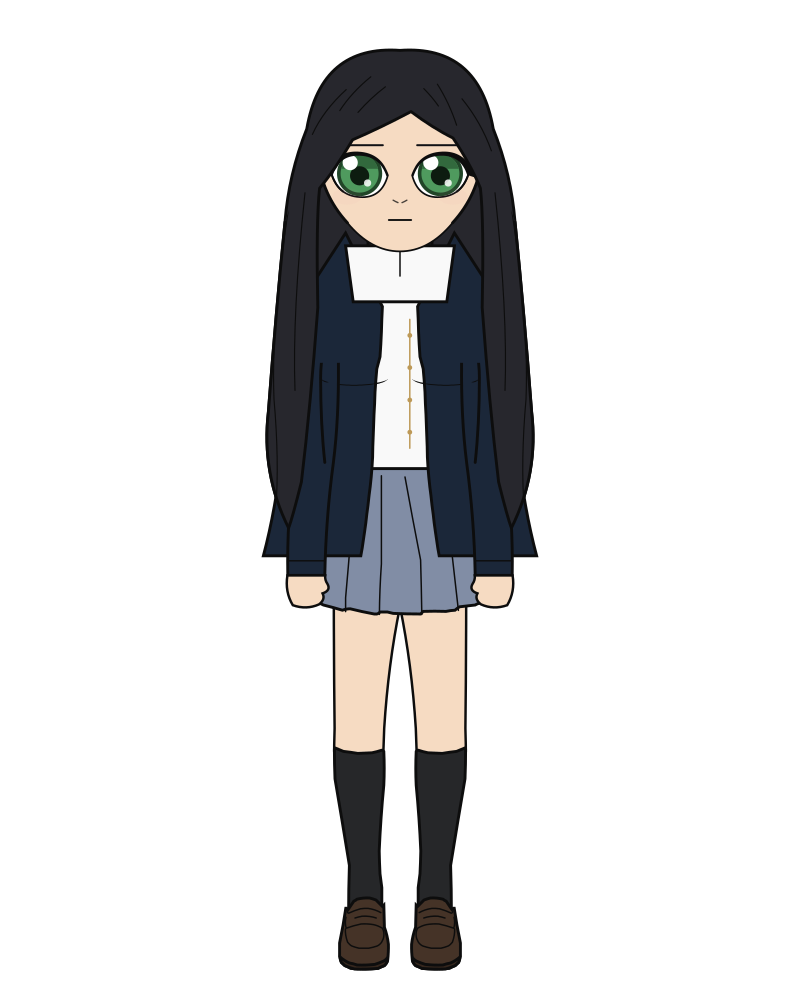
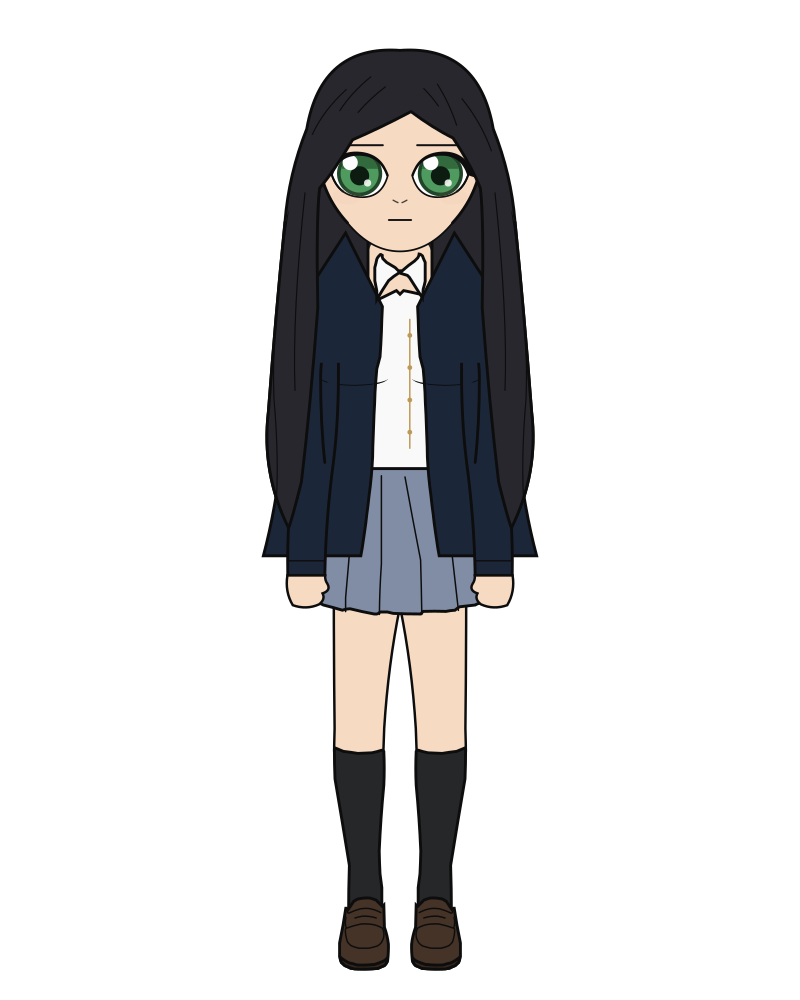
Mio: traced shirt collar and a shallower tunic neckline (M5)

Changed region(s): [[0.4062, 0.248, 0.5938, 0.31]]

diff --git a/src/anime_character_creator/character.py b/src/anime_character_creator/character.py
@@ -265,6 +265,12 @@ class Outfit:
     # (`collar_color`) and with a round neckline, which have their own necks, and
     # it replaces the undersleeve trim (`neckline_trim`) on the V.
     neckline_stand: bool = True
+    # How deep the tunic's V cuts, in head radii, for a garment that closes higher
+    # than its collar's default leaves it: Mio's shirt is buttoned to the throat
+    # under a shirt collar whose wings cross above the point where the default V
+    # for a traced collar bottoms out, so the V's skin showed below them. `None`
+    # keeps the depth each case already had.
+    neckline_notch: float | None = None
     # The tunic's sleeve reads its own sleeve colour all the way to the
     # wrist cuff instead of stopping at the short hem and handing off to
     # `undersleeve_color`/bare skin. Off by default, the short sleeve every
@@ -3872,6 +3878,8 @@ def _tunic(sk: Skeleton, p: CharacterParams) -> str:
         # has to sit behind its wings, or its edges show in that V above the
         # collar's back band.
         notch = sk.head_r * 0.19
+    if p.outfit.neckline_notch is not None:
+        notch = sk.head_r * p.outfit.neckline_notch
     sleeve_w = _sleeve_half_w(sk)
     # A coat worn over the tunic hides its short sleeve at the shoulder. The
     # coat's own shoulder reaches `_sleeve_half_w(sk) * 0.92` (see `_coat`) and
@@ -8235,6 +8243,49 @@ SKIRT_CUTS["pleated"] = GarmentCut(
     ref_body="tall_slender",
 )
 # (end of the pleated skirt)
+
+
+# Mio's shirt collar, per `docs/mio-plan.md` M5.
+# Traced by `harness/mio/trace_collar.py` off `segments/white-collared-shirt.png`: the
+# two wings as one outline, touching at the foot of their V where the ribbon's knot sits
+# and open above it, so her neck shows between them. An open collar, unlike the closed
+# band `_collar` draws without a cut. Head radii on `tall_slender`, x from the collar's
+# own centre line.
+COLLAR_CUTS["shirt"] = GarmentCut(
+    fills=(
+        (
+            (-0.253, 1.569),
+            [
+                ((-0.253, 1.523), (-0.253, 1.476)),
+                ((-0.266, 1.419), (-0.275, 1.362)),
+                ((-0.275, 1.291), (-0.275, 1.220)),
+                ((-0.262, 1.173), (-0.253, 1.127)),
+                ((-0.242, 1.102), (-0.217, 1.077)),
+                ((-0.207, 1.073), (-0.196, 1.084)),
+                ((-0.198, 1.102), (-0.189, 1.120)),
+                ((-0.168, 1.141), (-0.146, 1.163)),
+                ((-0.100, 1.189), (-0.053, 1.220)),
+                ((-0.036, 1.237), (-0.018, 1.255)),
+                ((0.004, 1.255), (0.025, 1.255)),
+                ((0.093, 1.192), (0.160, 1.148)),
+                ((0.178, 1.131), (0.196, 1.113)),
+                ((0.207, 1.091), (0.210, 1.070)),
+                ((0.228, 1.072), (0.246, 1.091)),
+                ((0.259, 1.127), (0.275, 1.163)),
+                ((0.275, 1.266), (0.275, 1.369)),
+                ((0.267, 1.412), (0.253, 1.455)),
+                ((0.252, 1.505), (0.246, 1.555)),
+                ((0.176, 1.441), (0.103, 1.327)),
+                ((0.093, 1.316), (0.082, 1.305)),
+                ((0.036, 1.289), (-0.011, 1.277)),
+                ((-0.068, 1.312), (-0.125, 1.362)),
+                ((-0.195, 1.466), (-0.253, 1.569)),
+            ],
+        ),
+    ),
+    ref_body="tall_slender",
+)
+# (end of the shirt collar)
 
 
 def _arms(

diff --git a/harness/mio/trace_collar.py b/harness/mio/trace_collar.py
@@ -1,0 +1,71 @@
+"""Trace Mio's shirt collar (`docs/mio-plan.md`, M5).
+
+`segments/white-collared-shirt.png` holds four things: the collar's two wings, a
+narrow strip of shirt front down the middle, two slivers beside the ribbon, and a
+cuff at each wrist. Only the wings are a silhouette question. The strip and the
+slivers are what the blazer's lapels and the ribbon happen to leave visible, so
+the tunic draws the shirt front and the blazer (M7) decides how much of it shows;
+the cuffs belong to the sleeves (M7).
+
+The wings touch at the foot of their V, where the ribbon's knot sits, and are
+separate above it, with her neck between them. Their tips already reach to within
+a few pixels of the chin, so nothing is carried up: a first pass copied the top row
+upward to tuck them behind the jaw, and the top row of a pointed wing is its tip,
+one pixel, so that drew a thin spike.
+
+Cut coordinates are head radii on `tall_slender`, x from the collar's own centre
+line (`AXIS_X`).
+
+    ./harness/run.sh harness/mio/trace_collar.py
+"""
+
+import json
+import sys
+
+import numpy as np
+from common import CY, R, median_colour, segment
+from PIL import Image, ImageDraw
+from scipy import ndimage as ndi
+
+sys.path.insert(0, ".claude/skills/trace-reference")
+import trace_lib as T  # noqa: E402
+
+# One, not the 2 the rounder shapes take: eroding by the stroke's half cuts a sharp
+# tip back along its bisector by much more than 2 px, and the wings are all tips.
+HALF = 1
+TOL = 0.008
+
+shirt, rgb = segment("white-collared-shirt.png")
+lab, n = ndi.label(shirt)
+# The collar: the component whose centroid is highest (the front strip and the
+# cuffs are all lower).
+best = min(range(1, n + 1), key=lambda i: np.nonzero(lab == i)[0].mean() if (lab == i).sum() > 500 else 1e9)
+collar = lab == best
+ys, xs = np.nonzero(collar)
+print(f"collar {int(collar.sum())} px, rows {ys.min()} to {ys.max()}, x {xs.min()} to {xs.max()}")
+
+sil = ndi.binary_erosion(collar, iterations=HALF)
+sy, sx = np.nonzero(sil)
+AXIS_X = (sx.min() + sx.max()) / 2
+print(f"silhouette x {sx.min()} to {sx.max()}, centre {AXIS_X:.1f}, rows {sy.min()} to {sy.max()}")
+
+
+def to_cut(p):
+    return ((p[0] - AXIS_X) / R, (p[1] - CY) / R)
+
+
+chain = T.fit_closed([to_cut(p) for p in T.boundary(sil)], TOL)
+print(f"collar: {len(chain[1])} segments, colour {median_colour(collar, rgb, 4)}")
+json.dump({"axis_x": AXIS_X, "collar": chain, "colour": median_colour(collar, rgb, 4)}, open("out/mio/collar_trace.json", "w"))
+
+box = (int(sx.min()) - 20, int(sy.min()) - 20, int(sx.max()) + 21, int(sy.max()) + 30)
+S = 4
+base = np.where(collar[..., None], rgb, 230).astype("uint8")
+img = Image.fromarray(base).crop(box)
+img = img.resize((img.width * S, img.height * S), Image.LANCZOS)
+d = ImageDraw.Draw(img)
+pts = T.sample_chain(chain[0], chain[1], 14)
+px = [((AXIS_X + x * R - box[0]) * S, (CY + y * R - box[1]) * S) for x, y in pts]
+d.line(px + [px[0]], fill=(255, 0, 80), width=2)
+img.save("out/mio/collar_trace.png")
+print("wrote out/mio/collar_trace.json and out/mio/collar_trace.png")

diff --git a/tests/test_smoke.py b/tests/test_smoke.py
@@ -2726,7 +2726,9 @@ def test_the_older_cuts_still_read_the_tall_chibi_and_mios_read_her_own() -> Non
     for registry in (character.COAT_CUTS, character.COLLAR_CUTS, character.SKIRT_CUTS):
         for name, cut in registry.items():
             # Mio's cuts are the exceptions, each traced on her own body.
-            mine = registry is character.SKIRT_CUTS and name == "pleated"
+            mine = (registry is character.SKIRT_CUTS and name == "pleated") or (
+                registry is character.COLLAR_CUTS and name == "shirt"
+            )
             assert cut.ref_body == ("tall_slender" if mine else "tall_chibi"), name
             assert not cut.per_leg, name
     assert character.KNEE_SOCK_CUT.ref_body == "tall_slender"
@@ -2833,3 +2835,25 @@ def test_underwear_never_hangs_below_a_skirts_hem() -> None:
     # Without a skirt there is nothing to cap against.
     bare = replace(p, outfit=replace(p.outfit, skirt_color=None))
     assert character._skirt_bottom_y(sk, bare) is None
+
+
+def test_the_shirt_collar_is_two_open_wings_on_her_own_body() -> None:
+    cut = character.COLLAR_CUTS["shirt"]
+    assert cut.ref_body == "tall_slender" and not cut.per_leg
+    assert len(cut.fills) == 1
+    p = PRESETS["mio"]
+    assert p.outfit.collar_cut == "shirt"
+    sk = character.skeleton_for(p)
+    svg = character._collar(sk, p)
+    assert svg.count("<path") == 1, "wings only: no closed band and no notch line"
+    assert f'fill="{p.outfit.collar_color}"' in svg
+
+
+def test_a_shallow_neckline_notch_closes_the_tunic_higher_and_only_mio_sets_one() -> None:
+    for name, p in PRESETS.items():
+        assert (p.outfit.neckline_notch is not None) == (name == "mio"), name
+    p = PRESETS["mio"]
+    sk = character.skeleton_for(p)
+    shallow = character._tunic(sk, p)
+    default = character._tunic(sk, replace(p, outfit=replace(p.outfit, neckline_notch=None)))
+    assert shallow != default

diff --git a/harness/mio/emit_collar.py b/harness/mio/emit_collar.py
@@ -1,0 +1,51 @@
+"""Emit Mio's shirt collar as `character.py` source, before `def _arms(`
+(`docs/mio-plan.md`, M5). Reads `out/mio/collar_trace.json`, which
+`trace_collar.py` writes. Re-running replaces the previously emitted block.
+"""
+
+import json
+
+SRC = "src/anime_character_creator/character.py"
+BEGIN = "# Mio's shirt collar, per `docs/mio-plan.md` M5."
+END = "# (end of the shirt collar)"
+data = json.load(open("out/mio/collar_trace.json"))
+
+
+def chain(c, indent):
+    start, segs = c
+    pad = " " * indent
+    out = [f"{pad}({start[0]:.3f}, {start[1]:.3f}),", f"{pad}["]
+    for (cx, cy), (ex, ey) in segs:
+        out.append(f"{pad}    (({cx:.3f}, {cy:.3f}), ({ex:.3f}, {ey:.3f})),")
+    out.append(f"{pad}],")
+    return "\n".join(out)
+
+
+lines = [
+    BEGIN,
+    "# Traced by `harness/mio/trace_collar.py` off `segments/white-collared-shirt.png`: the",
+    "# two wings as one outline, touching at the foot of their V where the ribbon's knot sits",
+    "# and open above it, so her neck shows between them. An open collar, unlike the closed",
+    "# band `_collar` draws without a cut. Head radii on `tall_slender`, x from the collar's",
+    "# own centre line.",
+    'COLLAR_CUTS["shirt"] = GarmentCut(',
+    "    fills=(",
+    "        (",
+    chain(data["collar"], 12),
+    "        ),",
+    "    ),",
+    '    ref_body="tall_slender",',
+    ")",
+    END,
+]
+block = "\n".join(lines) + "\n\n\n"
+src = open(SRC).read()
+if BEGIN in src:
+    a = src.index(BEGIN)
+    b = src.index(END, a) + len(END)
+    src = src[:a] + block.rstrip("\n") + src[b:]
+else:
+    i = src.index("def _arms(")
+    src = src[:i] + block + src[i:]
+open(SRC, "w").write(src)
+print("emitted", len(data["collar"][1]), "segments")

diff --git a/src/anime_character_creator/catalogue.py b/src/anime_character_creator/catalogue.py
@@ -156,6 +156,7 @@ TUNIC = GarmentSlot(
     "tunic",
     "Tunic",
     _color("tunic_color", "Tunic"),
+    ranges=(_range("neckline_notch", "Neckline depth", 0.0, 0.6),),
     bools=(
         _bool("tunic_tucked", "Tucked in"),
         _bool("neckline_round", "Round neckline"),
@@ -283,7 +284,7 @@ UNDERSKIRT = GarmentSlot(
 TROUSER = GarmentSlot("trouser", "Trousers (Pants)", _color("trouser_color", "Trousers (Pants)"))
 POUCH = GarmentSlot("pouch", "Pouch", _color("pouch_color", "Pouch"), requires="belt")
 # Cut labels for `COLLAR_CUTS`, asserted in sync the way the hairstyles' are.
-COLLAR_CUT_LABELS: dict[str, str] = {"pointed": "Pointed"}
+COLLAR_CUT_LABELS: dict[str, str] = {"pointed": "Pointed", "shirt": "Shirt collar (traced)"}
 assert set(COLLAR_CUT_LABELS) == set(COLLAR_CUTS)
 COLLAR = GarmentSlot(
     "collar",

diff --git a/src/anime_character_creator/presets.py b/src/anime_character_creator/presets.py
@@ -1274,6 +1274,9 @@ MIO = CharacterParams(
         skirt_cut="pleated",
         tunic_tucked=True,
         collar_color="#f9f9f9",
+        collar_cut="shirt",
+        # Buttoned to the throat: the V stays a seam under the wings.
+        neckline_notch=0.04,
         coat_color="#1b2739",
         coat_sleeves=True,
         # Shoulder to ankle: 0.437 puts the blazer's hem at 3.87, the reference's.

diff --git a/docs/mio-plan.md b/docs/mio-plan.md
@@ -464,16 +464,55 @@ hold the skirt's shape (one fill, six folds, her body) and the underwear cap.
 
 ### M5. The shirt and its collar
 
-- [ ] Trace the collar off `segments/white-collared-shirt.png`
+**Status: done pending the owner's sign-off, 2026-10-11.** Findings below the
+checklist.
+
+- [x] Trace the collar off `segments/white-collared-shirt.png`
       (`COLLAR_CUTS["shirt"]`, a neutral name): two points sitting over the
       lapels, opening at the throat, not the closed band `_collar` draws.
-- [ ] Decide whether the shirt body is the shared tunic (probably, in white) or
+- [x] Decide whether the shirt body is the shared tunic (probably, in white) or
       needs a cut, by comparing the front, the cuffs and the hem under the
       skirt. The cuffs show white at the wrist; `undersleeve_color` may do.
-- [ ] Skin shows in the V of the collar above the ribbon: check the neck.
+- [x] Skin shows in the V of the collar above the ribbon: check the neck.
 
 Acceptance: the collar reads as a real shirt collar at 4x, on white and black,
 beside the ribbon's place (not yet drawn); only Mio's render changes.
+
+#### M5 findings
+
+**What the shirt segment holds.** The collar's two wings (one component, touching
+at the foot of their V where the ribbon's knot sits), a narrow strip of shirt front
+down the middle, two slivers beside the ribbon, and a cuff at each wrist. Only the
+wings are a silhouette question: the strip and the slivers are what the lapels and
+the ribbon leave visible, so the tunic draws the shirt front and the blazer (M7)
+decides how much shows; the cuffs go with the sleeves (M7).
+
+**`COLLAR_CUTS["shirt"]`**, traced by `harness/mio/trace_collar.py`, emitted by
+`emit_collar.py`: the two wings as one outline of 24 segments, open above the
+crossing so her neck shows between them, which the closed standing band
+`_collar` draws without a cut cannot do. Her chin and the wing tips already
+meet, so nothing is carried up; a first pass copied the top row upward to tuck the
+wings behind the jaw and the top row of a pointed wing is its one-pixel tip, so
+that drew a spike. The erosion to the stroke's centre is one pixel here and not
+two: these are all sharp tips, which a wider erosion cuts back along their bisector.
+
+**`Outfit.neckline_notch`**, a new opt-in depth for the tunic's V, in head radii
+(`None` keeps every case as it was; only Mio sets it, 0.04). A traced collar sets
+the V to 0.19, built for Katherina's, and on Mio it bottomed out below the point
+where her wings cross, leaving a diamond of skin under them where the reference has
+white shirt. Under the wings the V is now a seam. It is in the catalogue as a
+range on the tunic slot.
+
+**Checked:** the calibration holds at the throat: her chin and ours both at row 399
+and the face's columns 516 to 745 against the reference's 516 to 742. The wings
+sit on the reference's in the blend.
+
+**Left for M6 and M7:** the wings crossing reads as an X without the ribbon's knot
+over it, and the skin between the crossing and the tunic's top edge will be covered
+by the ribbon; the reference's neck has a darker shadow tone under the chin
+(texture, not ported). Tests: 842 pass; `refresh-ref-out.sh` changed only Mio's
+render.
+
 
 ### M6. The ribbon
 
